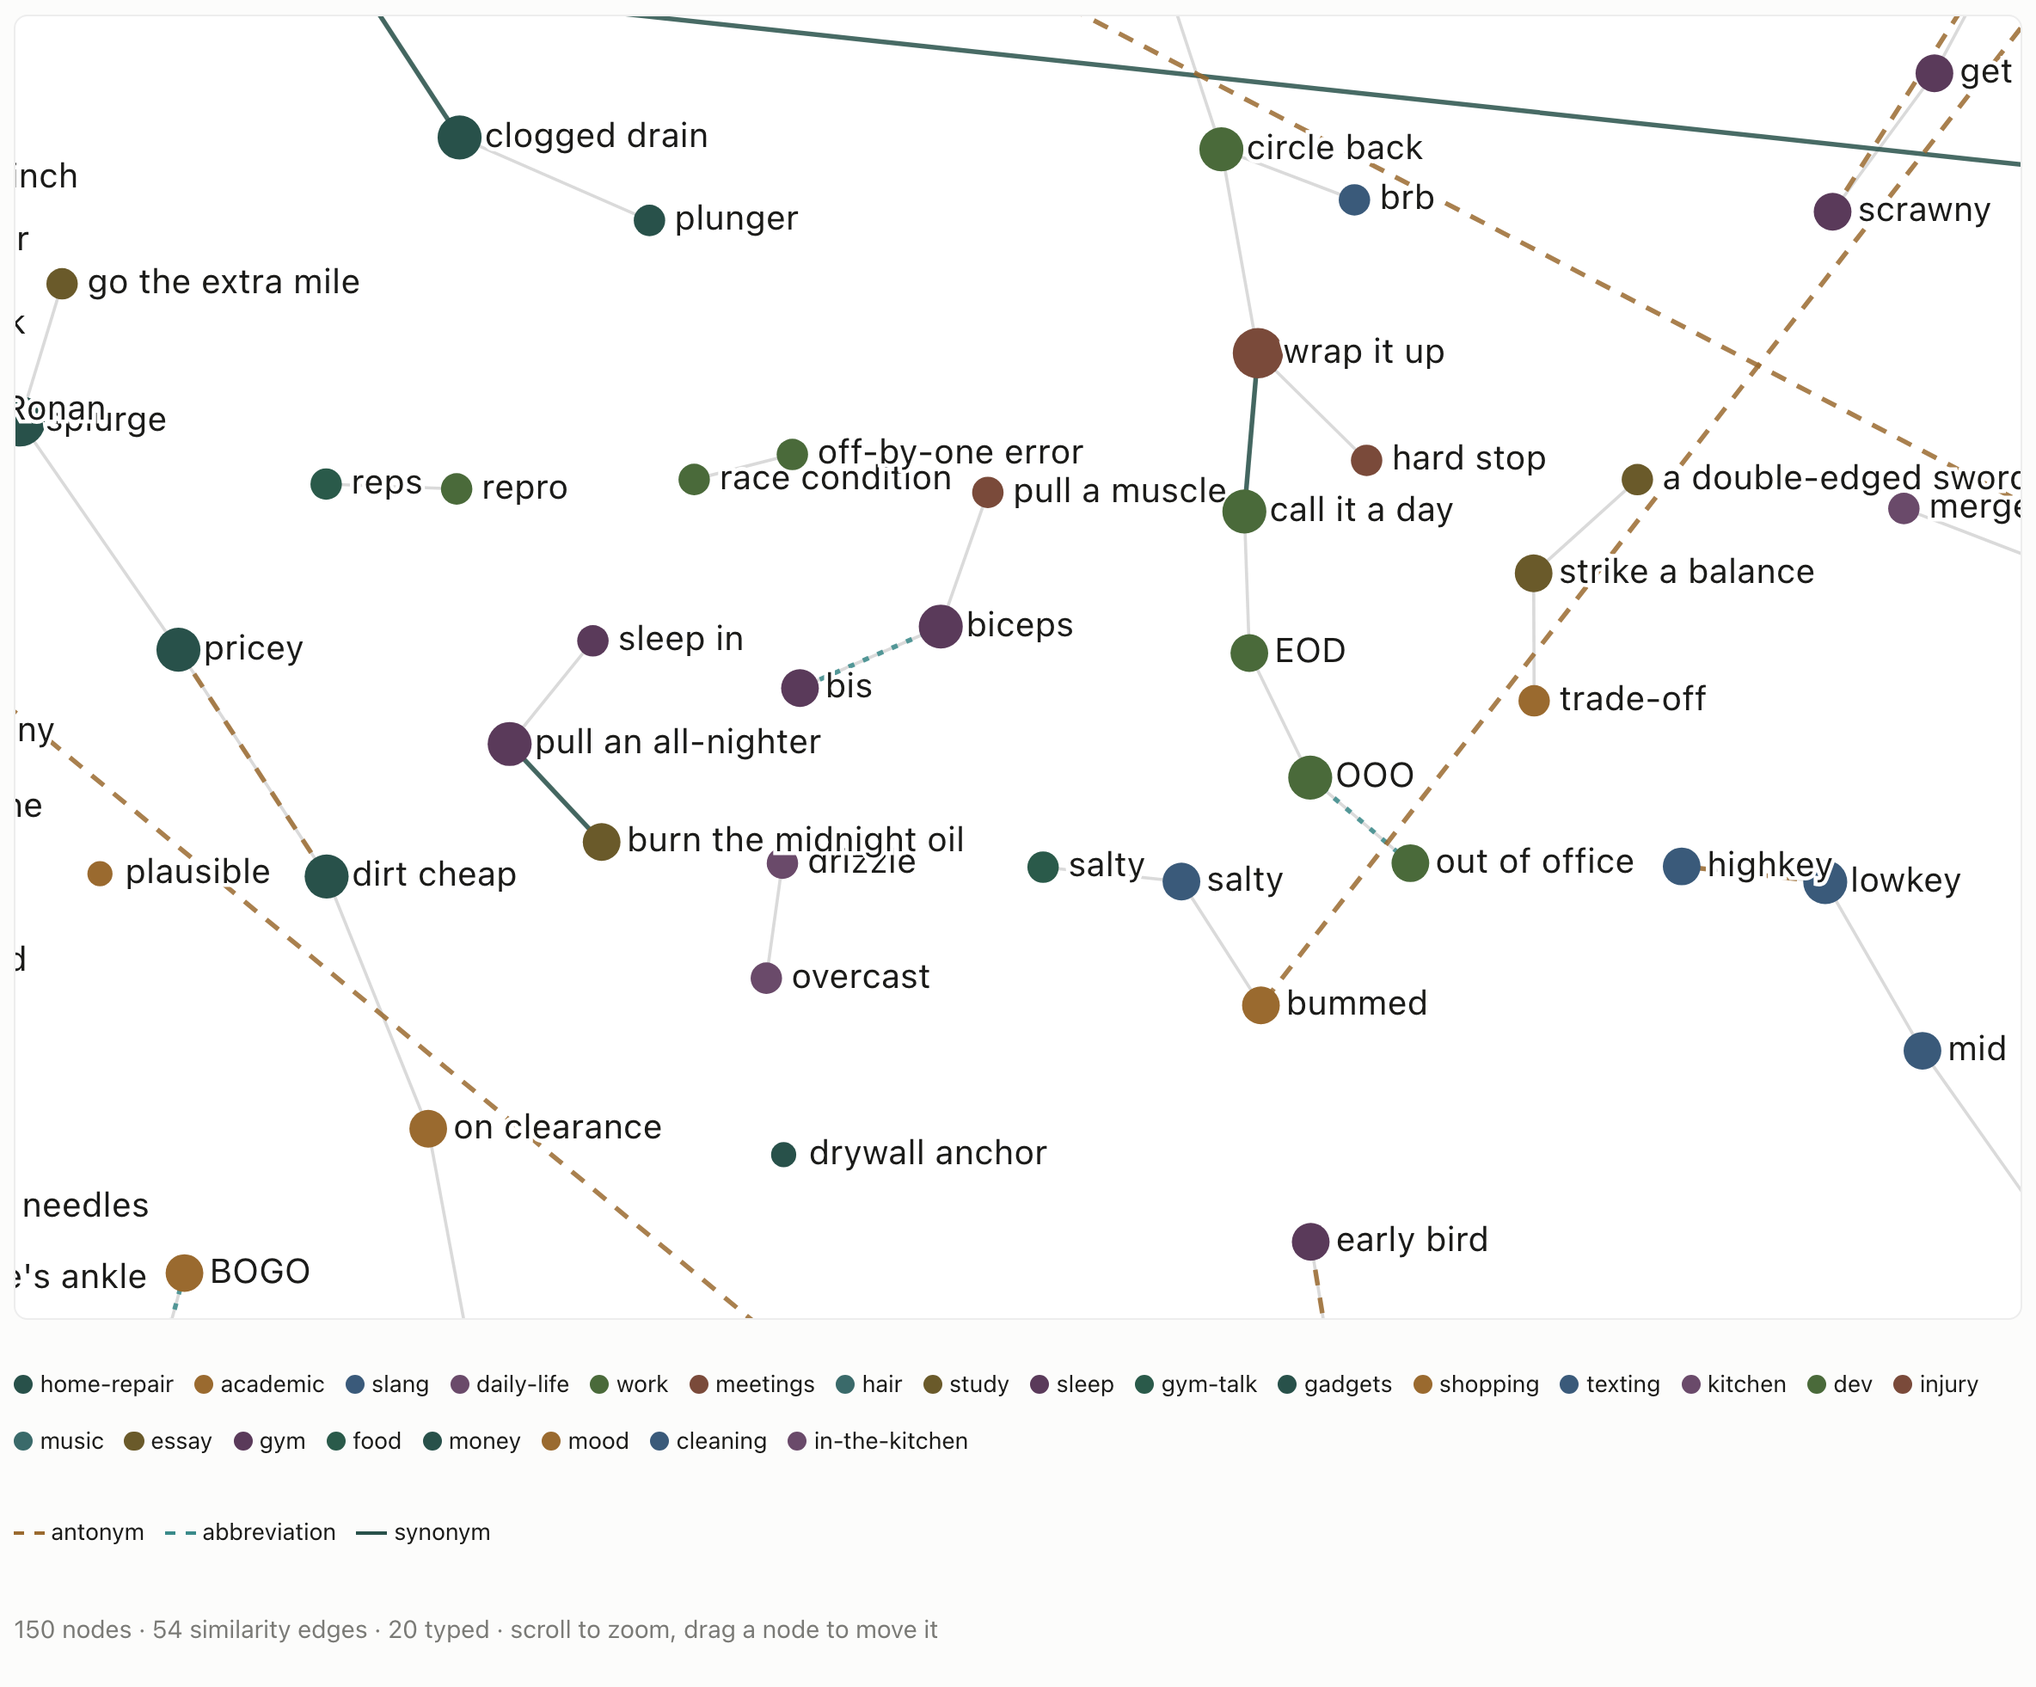
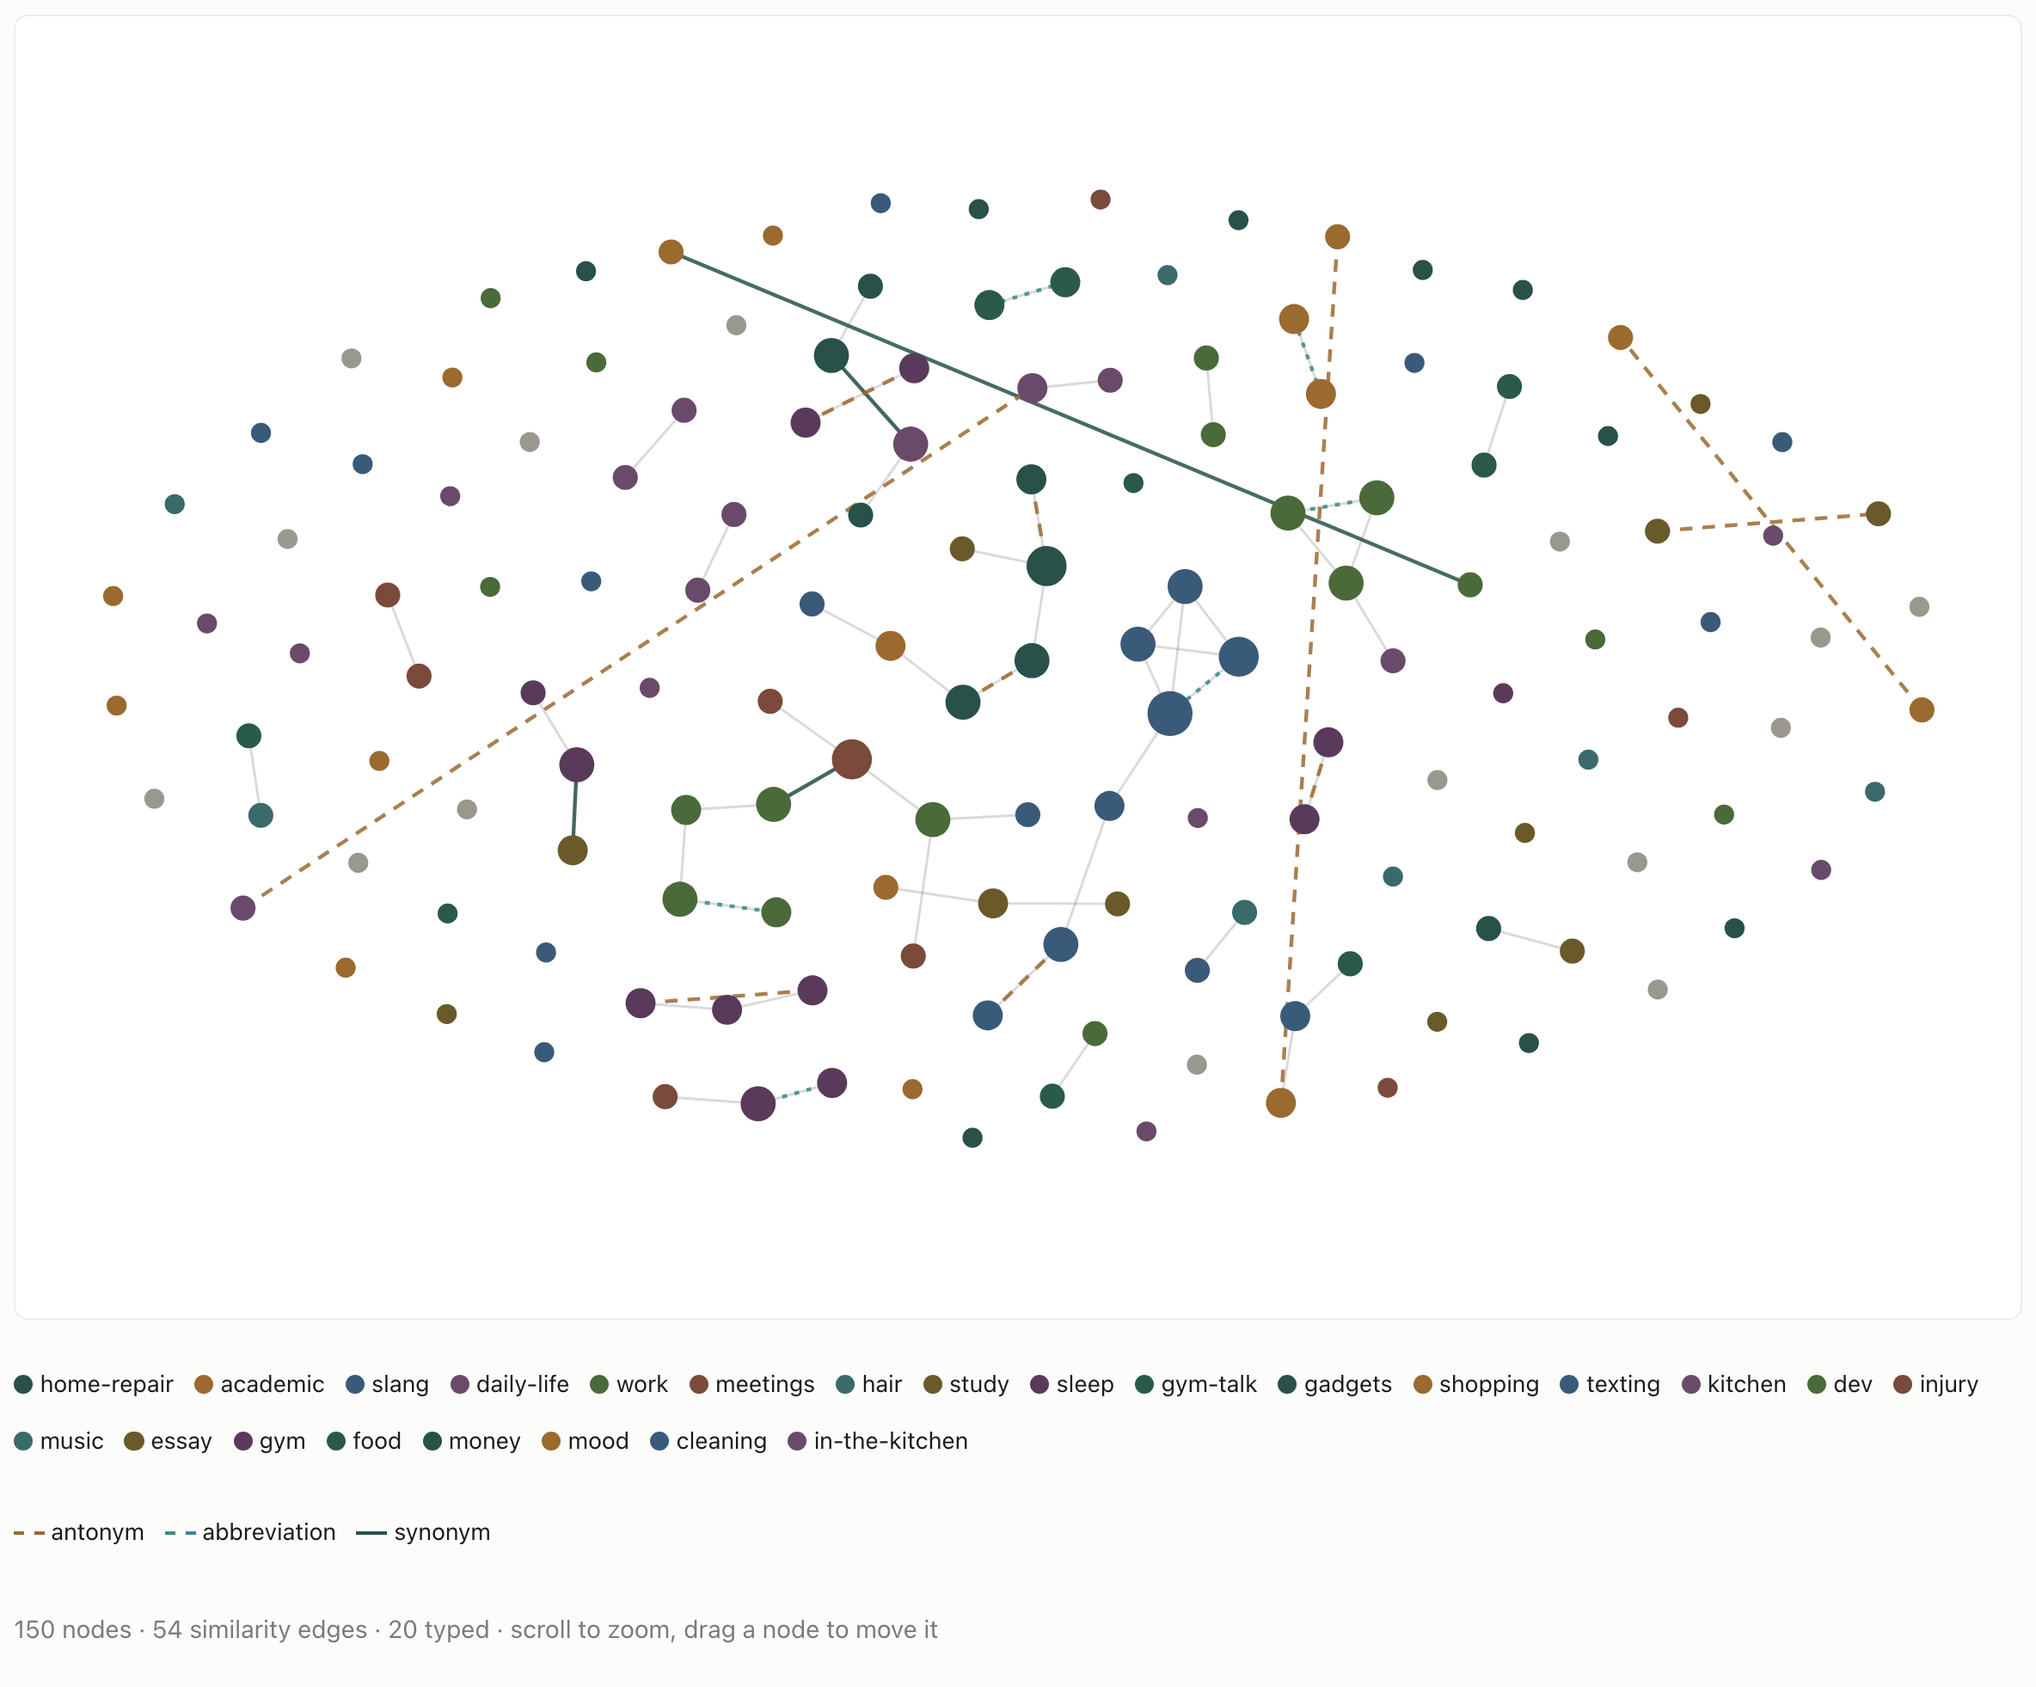
fix(graph): scale centering force with layout size
Scale axis-specific gravity against the canvas so disconnected nodes stay off the walls. Extract the physics into a pure module, add an offline layout benchmark, and refresh the graph documentation and screenshots.

diff --git a/src/knowledge/layout.js b/src/knowledge/layout.js
@@ -1,0 +1,81 @@
+// Knowledge-Graph physics — pure functions over {n, edges, pos, fixed, alpha, k},
+// kept out of graph.js so the layout can be measured off-DOM.
+//
+//   seedLayout   one-shot Fruchterman–Reingold to give the live sim a sane start
+//   stepSim      one tick of the live simulation (shared by seed + rAF loop)
+//   ringLayout   fallback placement for ranges above MAX_LIVE
+
+export const W = 800, H = 520, PAD = 28;
+
+// Long-range repulsion is capped past DMAX: FR's 1/d push is unbounded, so
+// disconnected clusters (words in different topics share no edge) otherwise fly
+// apart until they jam into the walls. Capping lets clusters separate at medium
+// range while gravity keeps the whole cloud centered and on-screen.
+export const DMAX = 300;
+
+// Gravity has to be measured against the crowd's push, not picked as a small
+// constant. Pairwise repulsion is k²/d with k² = W·H/n, so the total push on a
+// node is ~W·H/d whatever n is. A fixed pull of 0.03·distance loses that contest
+// by two orders of magnitude, and every node without an edge to hold it ends up
+// clamped against a wall. GRAVITY is the pull, as a multiple of W·H/R², that
+// balances the crowd at the rim of the drawable area. Each axis gets its own
+// pull (the canvas is wider than tall), so the cloud fills an ellipse instead of
+// a circle with empty margins left and right. At 0.7 no node ends up on a wall
+// for any demo-vault range from 7 to 150 nodes, and the layout still covers most
+// of the canvas; 0.5 left some pinned, 1.0 crowded the middle. Re-measure with
+// tools/bench-knowledge-layout.mjs after touching the forces.
+export const GRAVITY = 0.7;
+const RX = W / 2 - PAD, RY = H / 2 - PAD;
+const GX = (GRAVITY * W * H) / (RX * RX), GY = (GRAVITY * W * H) / (RY * RY);
+
+// One-shot Fruchterman–Reingold, used only to SEED the live sim with a sane
+// starting layout (a cold start from random positions looks chaotic).
+export function seedLayout(n, edges, iterations = 120) {
+  const pos = Array.from({ length: n }, () => ({
+    x: (Math.random() - 0.5) * W * 0.5 + W / 2,
+    y: (Math.random() - 0.5) * H * 0.5 + H / 2,
+  }));
+  const sim = { n, edges, pos, fixed: new Set(), alpha: 1, k: Math.sqrt((W * H) / Math.max(1, n)) };
+  for (let i = 0; i < iterations; i++) { stepSim(sim); sim.alpha *= 0.99; }
+  return pos;
+}
+
+// A single tick of the live simulation. `fixed` nodes (the one you're dragging)
+// don't move; `alpha` is the temperature we reheat on drag.
+export function stepSim(sim) {
+  const { pos, edges, fixed, n, k } = sim;
+  const disp = pos.map(() => ({ x: 0, y: 0 }));
+  for (let i = 0; i < n; i++)
+    for (let j = i + 1; j < n; j++) {
+      let dx = pos[i].x - pos[j].x, dy = pos[i].y - pos[j].y;
+      let d = Math.hypot(dx, dy) || 0.01;
+      if (d > DMAX) continue;
+      const rep = (k * k) / d, ux = dx / d, uy = dy / d;
+      disp[i].x += ux * rep; disp[i].y += uy * rep;
+      disp[j].x -= ux * rep; disp[j].y -= uy * rep;
+    }
+  for (const e of edges) {
+    let dx = pos[e.a].x - pos[e.b].x, dy = pos[e.a].y - pos[e.b].y;
+    let d = Math.hypot(dx, dy) || 0.01;
+    const att = (d * d) / k, ux = dx / d, uy = dy / d;
+    disp[e.a].x -= ux * att; disp[e.a].y -= uy * att;
+    disp[e.b].x += ux * att; disp[e.b].y += uy * att;
+  }
+  const max = 12 * sim.alpha + 1;
+  for (let i = 0; i < n; i++) {
+    if (fixed.has(i)) continue;
+    disp[i].x += (W / 2 - pos[i].x) * GX; // gravity keeps the cloud centered
+    disp[i].y += (H / 2 - pos[i].y) * GY;
+    const sp = Math.hypot(disp[i].x, disp[i].y) || 0.01;
+    const s = (Math.min(sp, max) / sp) * sim.alpha; // cooling → smaller steps → settles
+    pos[i].x = Math.max(PAD, Math.min(W - PAD, pos[i].x + disp[i].x * s)); // clamp = safety net
+    pos[i].y = Math.max(PAD, Math.min(H - PAD, pos[i].y + disp[i].y * s));
+  }
+}
+
+export function ringLayout(n) {
+  return Array.from({ length: n }, (_, i) => {
+    const a = (i / n) * Math.PI * 2;
+    return { x: W / 2 + Math.cos(a) * (W / 2 - PAD), y: H / 2 + Math.sin(a) * (H / 2 - PAD) };
+  });
+}

diff --git a/src/knowledge/graph.js b/src/knowledge/graph.js
@@ -18,6 +18,7 @@ import { cosine } from "../reassign/cluster.js";
 import { ensureEmbeddingsFor } from "../reassign/index.js";
 import { findRelations, REL_TYPES } from "../ai/relations.js";
 import { UI } from "../ui/strings.js";
+import { W, H, seedLayout, stepSim, ringLayout } from "./layout.js";
 
 const REGISTERS = ["slang", "casual", "neutral", "formal", "academic", "technical"];
 const PALETTE = [
@@ -32,7 +33,6 @@ const REL_STYLE = {
   abbreviation: { stroke: "#3a8a8a", dash: "2 3" },
 };
 const MAX_LIVE = 150; // above this we skip the O(N²) sim and fall back to a ring
-const W = 800, H = 520, PAD = 28;
 
 const el = (tag, cls, text) => {
   const e = document.createElement(tag);
@@ -55,65 +55,6 @@ function computeEdges(items, threshold) {
       if (s >= threshold) edges.push({ a: i, b: j, w: s });
     }
   return edges;
-}
-
-// One-shot Fruchterman–Reingold, used only to SEED the live sim with a sane
-// starting layout (a cold start from random positions looks chaotic).
-function seedLayout(n, edges, iterations = 120) {
-  const pos = Array.from({ length: n }, () => ({
-    x: (Math.random() - 0.5) * W * 0.5 + W / 2,
-    y: (Math.random() - 0.5) * H * 0.5 + H / 2,
-  }));
-  const sim = { n, edges, pos, fixed: new Set(), alpha: 1, k: Math.sqrt((W * H) / Math.max(1, n)) };
-  for (let i = 0; i < iterations; i++) { stepSim(sim); sim.alpha *= 0.99; }
-  return pos;
-}
-
-// A single tick of the live simulation. Same forces as seedLayout, but pulled
-// out so the rAF loop and the seed share one implementation. `fixed` nodes (the
-// one you're dragging) don't move; `alpha` is the temperature we reheat on drag.
-// Long-range repulsion is capped past DMAX: FR's 1/d push is unbounded, so
-// disconnected clusters (words in different topics share no edge) otherwise fly
-// apart until they jam into the walls. Capping lets clusters separate at medium
-// range while gravity keeps the whole cloud centered and on-screen.
-const DMAX = 300;
-
-function stepSim(sim) {
-  const { pos, edges, fixed, n, k } = sim;
-  const disp = pos.map(() => ({ x: 0, y: 0 }));
-  for (let i = 0; i < n; i++)
-    for (let j = i + 1; j < n; j++) {
-      let dx = pos[i].x - pos[j].x, dy = pos[i].y - pos[j].y;
-      let d = Math.hypot(dx, dy) || 0.01;
-      if (d > DMAX) continue;
-      const rep = (k * k) / d, ux = dx / d, uy = dy / d;
-      disp[i].x += ux * rep; disp[i].y += uy * rep;
-      disp[j].x -= ux * rep; disp[j].y -= uy * rep;
-    }
-  for (const e of edges) {
-    let dx = pos[e.a].x - pos[e.b].x, dy = pos[e.a].y - pos[e.b].y;
-    let d = Math.hypot(dx, dy) || 0.01;
-    const att = (d * d) / k, ux = dx / d, uy = dy / d;
-    disp[e.a].x -= ux * att; disp[e.a].y -= uy * att;
-    disp[e.b].x += ux * att; disp[e.b].y += uy * att;
-  }
-  const max = 12 * sim.alpha + 1;
-  for (let i = 0; i < n; i++) {
-    if (fixed.has(i)) continue;
-    disp[i].x += (W / 2 - pos[i].x) * 0.03; // gravity keeps the cloud centered
-    disp[i].y += (H / 2 - pos[i].y) * 0.03;
-    const sp = Math.hypot(disp[i].x, disp[i].y) || 0.01;
-    const s = (Math.min(sp, max) / sp) * sim.alpha; // cooling → smaller steps → settles
-    pos[i].x = Math.max(PAD, Math.min(W - PAD, pos[i].x + disp[i].x * s)); // clamp = safety net
-    pos[i].y = Math.max(PAD, Math.min(H - PAD, pos[i].y + disp[i].y * s));
-  }
-}
-
-function ringLayout(n) {
-  return Array.from({ length: n }, (_, i) => {
-    const a = (i / n) * Math.PI * 2;
-    return { x: W / 2 + Math.cos(a) * (W / 2 - PAD), y: H / 2 + Math.sin(a) * (H / 2 - PAD) };
-  });
 }
 
 // A previous mount's rAF loop must be stopped when we re-enter the view, or it

diff --git a/README.md b/README.md
@@ -13,18 +13,27 @@ by how they're spelled.
 
 <p align="center">
   <img src="assets/knowledge-graph.png" width="860"
-       alt="Knowledge Graph of the 150-entry demo vault, zoomed in, with word labels, similarity edges and dashed antonym and abbreviation edges">
+       alt="Knowledge Graph of all 150 demo entries: nodes coloured by topic, grey similarity edges, and dashed antonym, dotted abbreviation and solid synonym edges">
 </p>
 
-The Knowledge Graph over all 150 entries of the demo vault, zoomed in on the
-middle (words with no neighbour above the threshold sit around the edge, out of
-frame). Grey lines join words whose embeddings clear a cosine threshold you set
-with a slider. Solid green, dashed brown and dotted teal lines are typed
-relations: synonym, antonym, abbreviation. Colour is the word's first topic tag.
-Two things in this frame are the reason the app is built the way it is:
-`call it a day` and `wrap it up` (and `pull an all-nighter` and `burn the
-midnight oil`) are near-synonyms filed under different topics, and `salty` /
-`salty` (咸, and 酸、不爽) sit right next to each other.
+The Knowledge Graph over all 150 entries of the demo vault. Grey lines join words
+whose embeddings clear a cosine threshold you set with a slider; solid green,
+dashed brown and dotted teal lines are typed relations (synonym, antonym,
+abbreviation). Colour is the word's first topic tag. At this threshold about
+half the words have no neighbour at all, and nearly half of the grey edges join
+two different topics: the vectors and the tags disagree about what belongs
+together.
+
+<p align="center">
+  <img src="assets/knowledge-graph-casual.png" width="760"
+       alt="Knowledge Graph of the 42 casual-register entries with word labels: call it a day and wrap it up joined by a synonym edge across two topics; antonym pairs ace/flunk, buff/scrawny, night owl/early bird, pricey/dirt cheap, splurge/penny-pinch">
+</p>
+
+The same view over the 42 casual-register entries, with labels on. `call it a
+day` (work) and `wrap it up` (meetings) are near-synonyms filed under different
+topics, which is the kind of split the graph is for finding. Each antonym pair
+(`ace` / `flunk`, `night owl` / `early bird`, `pricey` / `dirt cheap`) sits close
+together, because distance measures topic, not polarity.
 
 > **About the data.** Every screenshot and example in this README comes from
 > [`data/sample/vault.json`](data/sample/vault.json), a synthetic demo vault of
@@ -89,7 +98,7 @@ your own keys.
 | **Regroup** (Settings → Organize) | every word on an axis, with its gloss and current tag → one LLM call per axis that assigns each word a group → a diff against the old tags (kept, merged, split, new) shown as a preview | Nothing is written until you apply. A word the model skips keeps a group of its own; a failed naming call falls back to a slug of a member. Two runs over the same vault can differ. |
 | **Relate** (graph detail panel, "Classify visible") | one word plus its 8 nearest neighbours by cosine → the model labels each pair synonym, antonym, progression, collocation, abbreviation or none → typed edges | If the true partner is not among the 8 nearest, it cannot be found. |
 | **Retrieve** (`src/retrieve/index.js`) | an axis value or a search string → cards | Search is substring only (see `熬夜` above). |
-| **Graph** (`src/retrieve/graph.js`, `src/knowledge/graph.js`) | stored vectors → edges at a live cosine threshold plus a force layout, both in the browser | Above 150 nodes both views skip the O(N²) edge and layout pass and fall back to a ring. In the Knowledge Graph, words with no edge drift to the border and pile up there. |
+| **Graph** (`src/retrieve/graph.js`, `src/knowledge/graph.js`) | stored vectors → edges at a live cosine threshold plus a force layout, both in the browser | Above 150 nodes both views skip the O(N²) edge and layout pass and fall back to a ring. Words with no edge have nothing holding them in place; the Knowledge Graph's centring pull is sized against the crowd's repulsion (`src/knowledge/layout.js`) so they stay inside the canvas. |
 | **Sync** (`src/sync/dropbox.js`) | the whole vault as one JSON file, by export/import or Dropbox | Merge is last-write-wins per record. Deletes travel as tombstones, kept 90 days, so a stale copy on another device cannot bring a deleted card back. |
 
 <p align="center">
@@ -132,10 +141,10 @@ top 8 is listed by `python tools/eval_neighbors.py data/sample/vault.json
 
 **Expecting the vector to separate senses.** The text embedded is the English
 surface followed by the Chinese gloss (`src/reassign/index.js:25`). When two
-cards share a surface, as `salty` (咸) and `salty` (酸、不爽) do, they land next to
-each other even though the glosses differ, as the graph above shows; so do the
-two `bass`, `drill` and `merge` cards. Senses are kept apart by `sense_key` on the card, not by the
-embedding.
+cards share a surface, as `salty` (咸) and `salty` (酸、不爽) do, each is the
+other's nearest neighbour even though the glosses differ; so are the two `bass`,
+`drill` and `merge` cards (same `eval_neighbors.py --audit-out` listing). Senses
+are kept apart by `sense_key` on the card, not by the embedding.
 
 **A projection computed outside the app.** The first graph projected exported
 embeddings to 2D with PCA, which meant exporting, running a batch script and
@@ -225,7 +234,7 @@ key.
 | `src/retrieve/`, `src/knowledge/` | Retrieve, Graph, Knowledge Graph |
 | `src/review/`, `src/timeline/`, `src/dashboard/`, `src/settings/` | the remaining views |
 | `src/sync/` | Dropbox PKCE client and merge-on-sync |
-| `tools/` | demo-vault generator, eval scripts |
+| `tools/` | demo-vault generator, eval scripts, Knowledge Graph layout bench |
 | `data/sample/` | the synthetic demo vault |
 | `docs/DECISION-LOG.md` | decisions D-00 to D-20 with the reasoning behind each |
 
